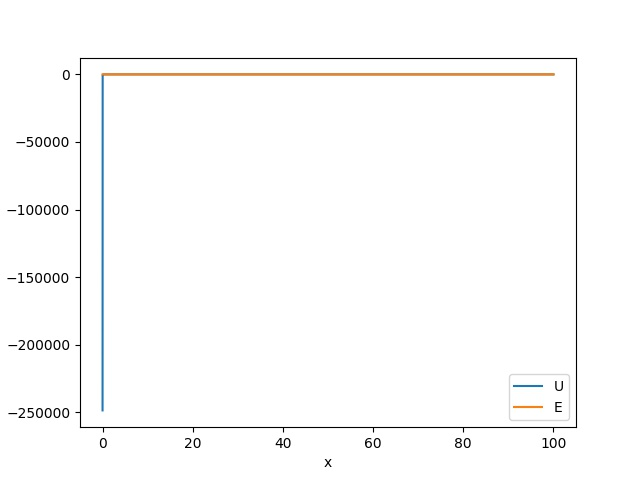
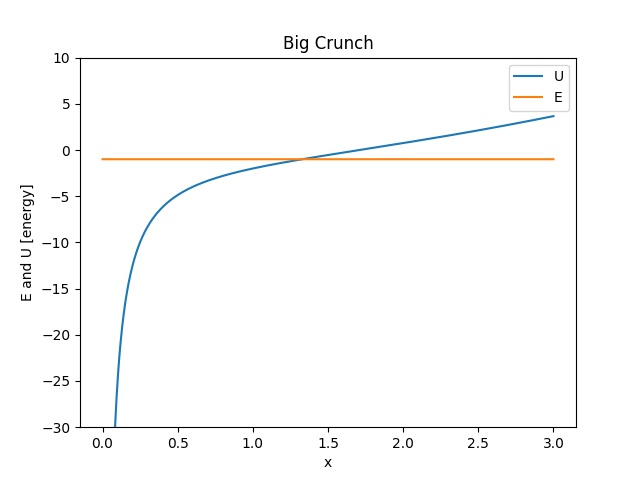
Changed parameters
for different values of omega w, m, and w

diff --git a/Project1/proj1_8.py b/Project1/proj1_8.py
@@ -2,24 +2,24 @@ import matplotlib.pyplot as plt
 import numpy as np
 
 def U(x, om, ow, w):
-    return -(om/x + ow*x**(1+3*w))
+    return -(om/x + ow*x**(-(1+3*w)))
 
 def E(x, om, ow):
     return 1 - om - ow + x - x
 
-x = np.linspace(0,100,100001)
+x = np.linspace(0,3,10001)
 
-omega_m = 0
-omega_w = 0.4
+omega_m = 0.5
+omega_w = 3
 w = -1
 
-omega_m2 = 0.3
-omega_w2 = 0.7
-w2 = -0.95
+omega_m2 = 2.5
+omega_w2 = -0.5
+w2 = -1
 
-omega_m3 = 0.05
-omega_w3 = 1.4
-w3 = -0.5
+omega_m3 = 0.3
+omega_w3 = 0.64
+w3 = -1
 
 
 if (E(x , omega_m2, omega_w2) < U(x, omega_m2, omega_w2, w)).any():
@@ -31,10 +31,13 @@ else:
 plt.plot(x,U(x, omega_m, omega_w, w), label = 'U')
 plt.plot(x, E(x, omega_m, omega_w), label = 'E')
 
+plt.ylim(-30,10)
+
 plt.xlabel("x")
 plt.ylabel("E and U [energy]")
 plt.legend()
 #plt.title(r"Case 1: w = {}, $\Omega_{m 0}$ = {}, $\Omega_{w 0}$ = {} ".format(w, omega_m, omega_w))
+plt.title("No Big Bang")
 plt.savefig("images/case1_8.jpeg")
 plt.show()
 
@@ -44,10 +47,13 @@ plt.show()
 plt.plot(x,U(x, omega_m2, omega_w2, w2), label = 'U')
 plt.plot(x, E(x, omega_m2, omega_w2), label = 'E')
 
+plt.ylim(-30,10)
 plt.xlabel("x")
 plt.ylabel("E and U [energy]")
+
 plt.legend()
 #plt.title(r"Case 2: w = {}, $\Omega_{m 0}$ = {}, $\Omega_{w 0}$ = {} ".format(w2, omega_m2, omega_w2))
+plt.title("Big Crunch")
 plt.savefig("images/case2_8.jpeg")
 plt.show()
 
@@ -55,9 +61,12 @@ plt.show()
 plt.plot(x,U(x, omega_m3, omega_w3, w3), label = 'U')
 plt.plot(x, E(x, omega_m3, omega_w3), label = 'E')
 
+plt.ylim(-30,10)
+
 plt.xlabel("x")
 plt.ylabel("E and U [energy]")
 #plt.title(r"Case 3: w = {}, $\Omega_{m 0}$ = {}, $\Omega_{w 0}$ = {} ".format(w3, omega_m3, omega_w3))
+plt.title("Big Freeze")
 plt.savefig("images/case3_8.jpeg")
 plt.legend()
 plt.show()

diff --git a/Project1/proj1_2.py b/Project1/proj1_2.py
@@ -2,29 +2,18 @@ import matplotlib.pyplot as plt
 import numpy as np
 
 def U(x, om, ow):
-    return -(om/x + ow*x**2)
+    return -(om/x + ow*x**(-(1+3*w)))
 
 def E(x, om, ow):
     return 1 - om - ow + x - x
 
 x = np.linspace(0.001,1,100)
-omega_m = 0.24
-omega_w = 0.64
-omega_m2 = 1.1
-omega_w2 = 1.5
+omega_m = 0
+omega_w = 3
+omega_m2 = 2
+omega_w2 = 1
+w = -1
 
-ediff = E(x , omega_m, omega_w) - U(x, omega_m, omega_w)
-ediff2 = E(x , omega_m2, omega_w2) - U(x, omega_m2, omega_w2)
-
-if ediff.any() < 0:
-    print("This combo is bad for E")
-else:
-    print("Is all good for E")
-
-if  ediff2.any() < 0:
-    print("This combo is bad for E2")
-else:
-    print("Is all good for E2")
 
 
 plt.plot(x,U(x, omega_m, omega_w), label = 'U')
